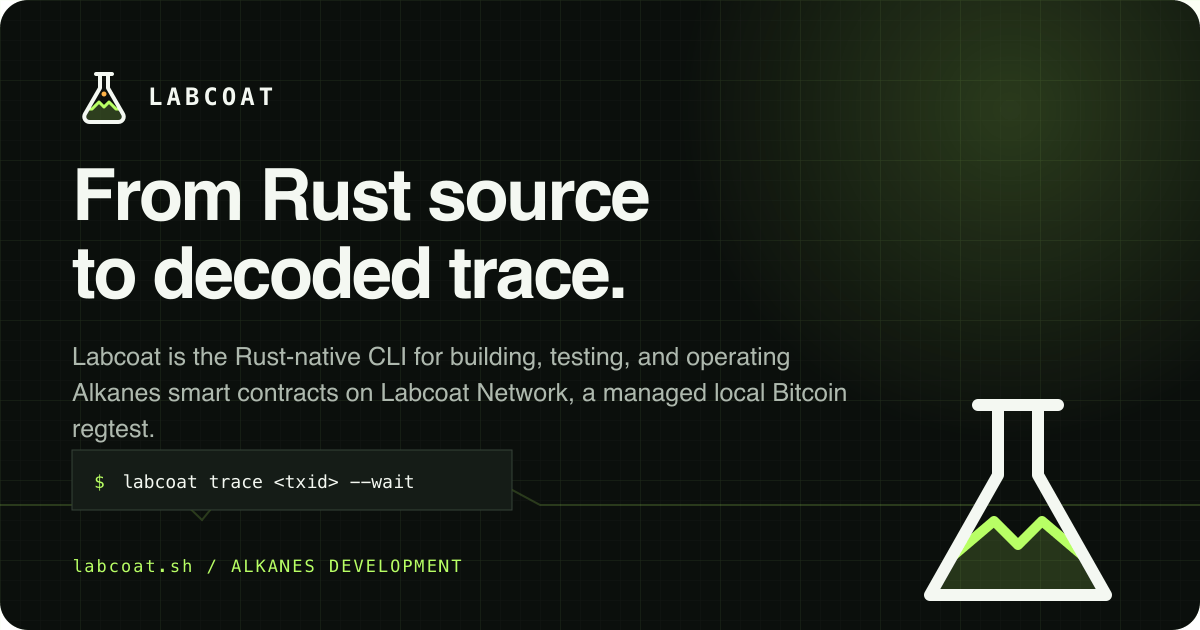
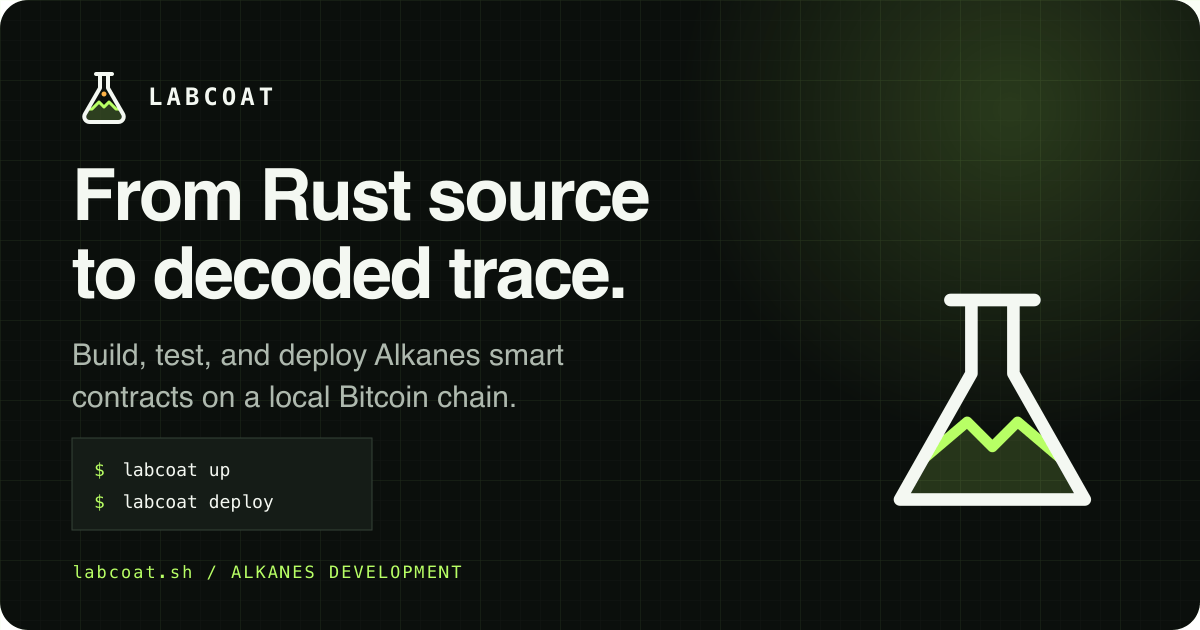
feat(web): refresh the social image and its tags
Show the up-and-deploy workflow instead of a trace command, shorten the
description so it fits two lines, and give the flask room. Add image
size and alt tags, and point the README at the PNG, which does not depend
on embedded fonts.

diff --git a/apps/web/astro.config.ts b/apps/web/astro.config.ts
@@ -81,6 +81,9 @@ export default defineConfig({
         { tag: 'meta', attrs: { property: 'og:site_name', content: brand.name } },
         { tag: 'meta', attrs: { property: 'og:description', content: brand.metaDescription } },
         { tag: 'meta', attrs: { property: 'og:image', content: 'https://labcoat.sh/og.png' } },
+        { tag: 'meta', attrs: { property: 'og:image:width', content: '1200' } },
+        { tag: 'meta', attrs: { property: 'og:image:height', content: '630' } },
+        { tag: 'meta', attrs: { property: 'og:image:alt', content: `${brand.name}: ${brand.socialHeadline}` } },
         { tag: 'meta', attrs: { name: 'twitter:card', content: 'summary_large_image' } },
       ],
     }),

diff --git a/README.md b/README.md
@@ -1,6 +1,6 @@
 # Labcoat
 
-![Labcoat — From Rust source to decoded trace.](apps/web/public/og.svg)
+![Labcoat — From Rust source to decoded trace.](apps/web/public/og.png)
 
 **From Rust source to decoded trace.**
 
